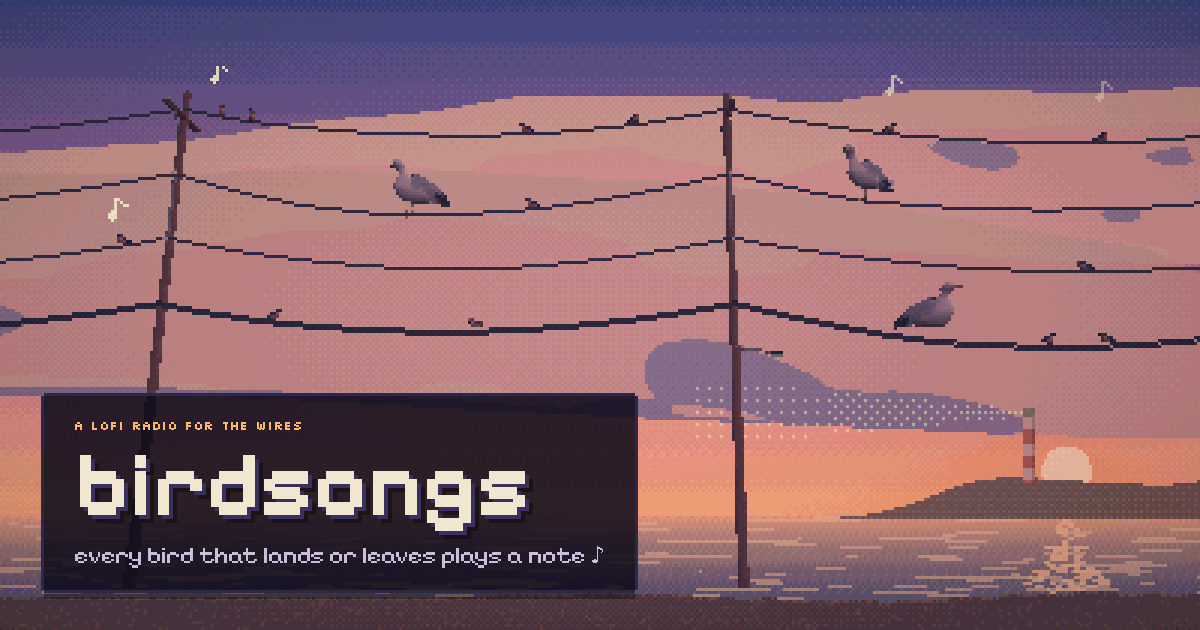
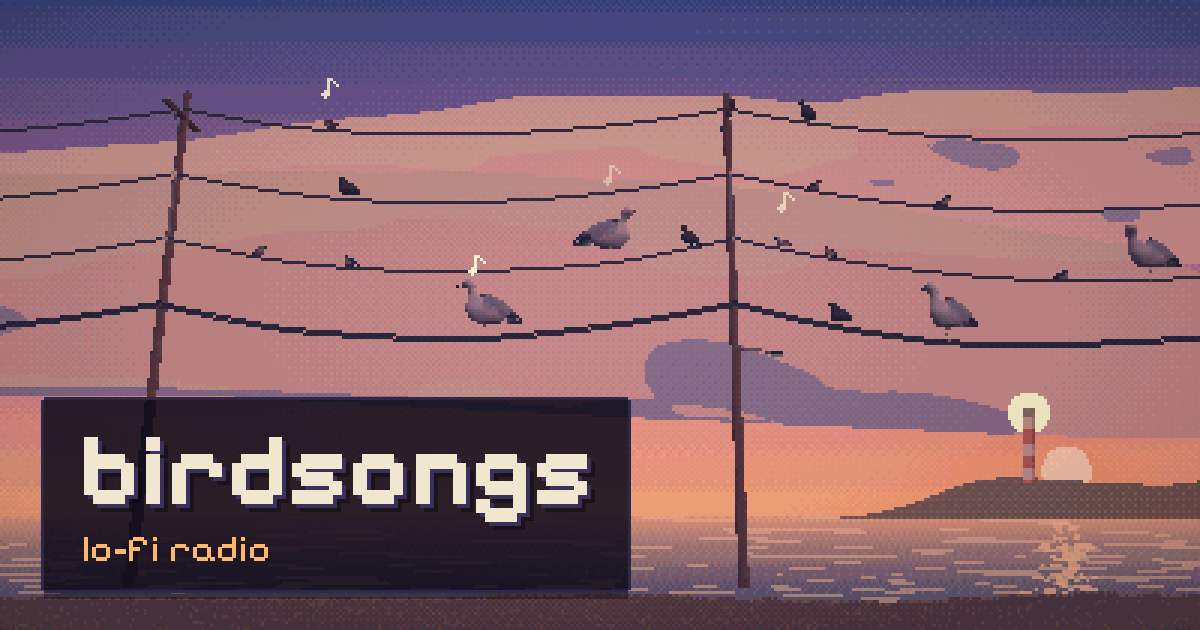
Share card: just “birdsongs” and “lo-fi radio”

diff --git a/index.html b/index.html
@@ -34,13 +34,13 @@
     <meta property="og:image:type" content="image/png" />
     <meta property="og:image:width" content="1200" />
     <meta property="og:image:height" content="630" />
-    <meta property="og:image:alt" content="Pixel-art birds perched on sagging power lines against a dusk sky, under the title Birdsongs." />
+    <meta property="og:image:alt" content="Pixel-art birds perched on sagging power lines against a dusk sky, under the title “birdsongs, lo-fi radio”." />
     <meta property="og:locale" content="en_US" />
     <meta name="twitter:card" content="summary_large_image" />
     <meta name="twitter:title" content="Birdsongs · lofi melodies on the wire" />
     <meta name="twitter:description" content="Every bird on the wire is a note. A lofi pixel-art radio, with rain." />
     <meta name="twitter:image" content="https://birdsongs.superfun.games/og.png" />
-    <meta name="twitter:image:alt" content="Pixel-art birds perched on sagging power lines against a dusk sky, under the title Birdsongs." />
+    <meta name="twitter:image:alt" content="Pixel-art birds perched on sagging power lines against a dusk sky, under the title “birdsongs, lo-fi radio”." />
 
     <!-- fonts: connect early, swap in when ready -->
     <link rel="preconnect" href="https://fonts.googleapis.com" />
